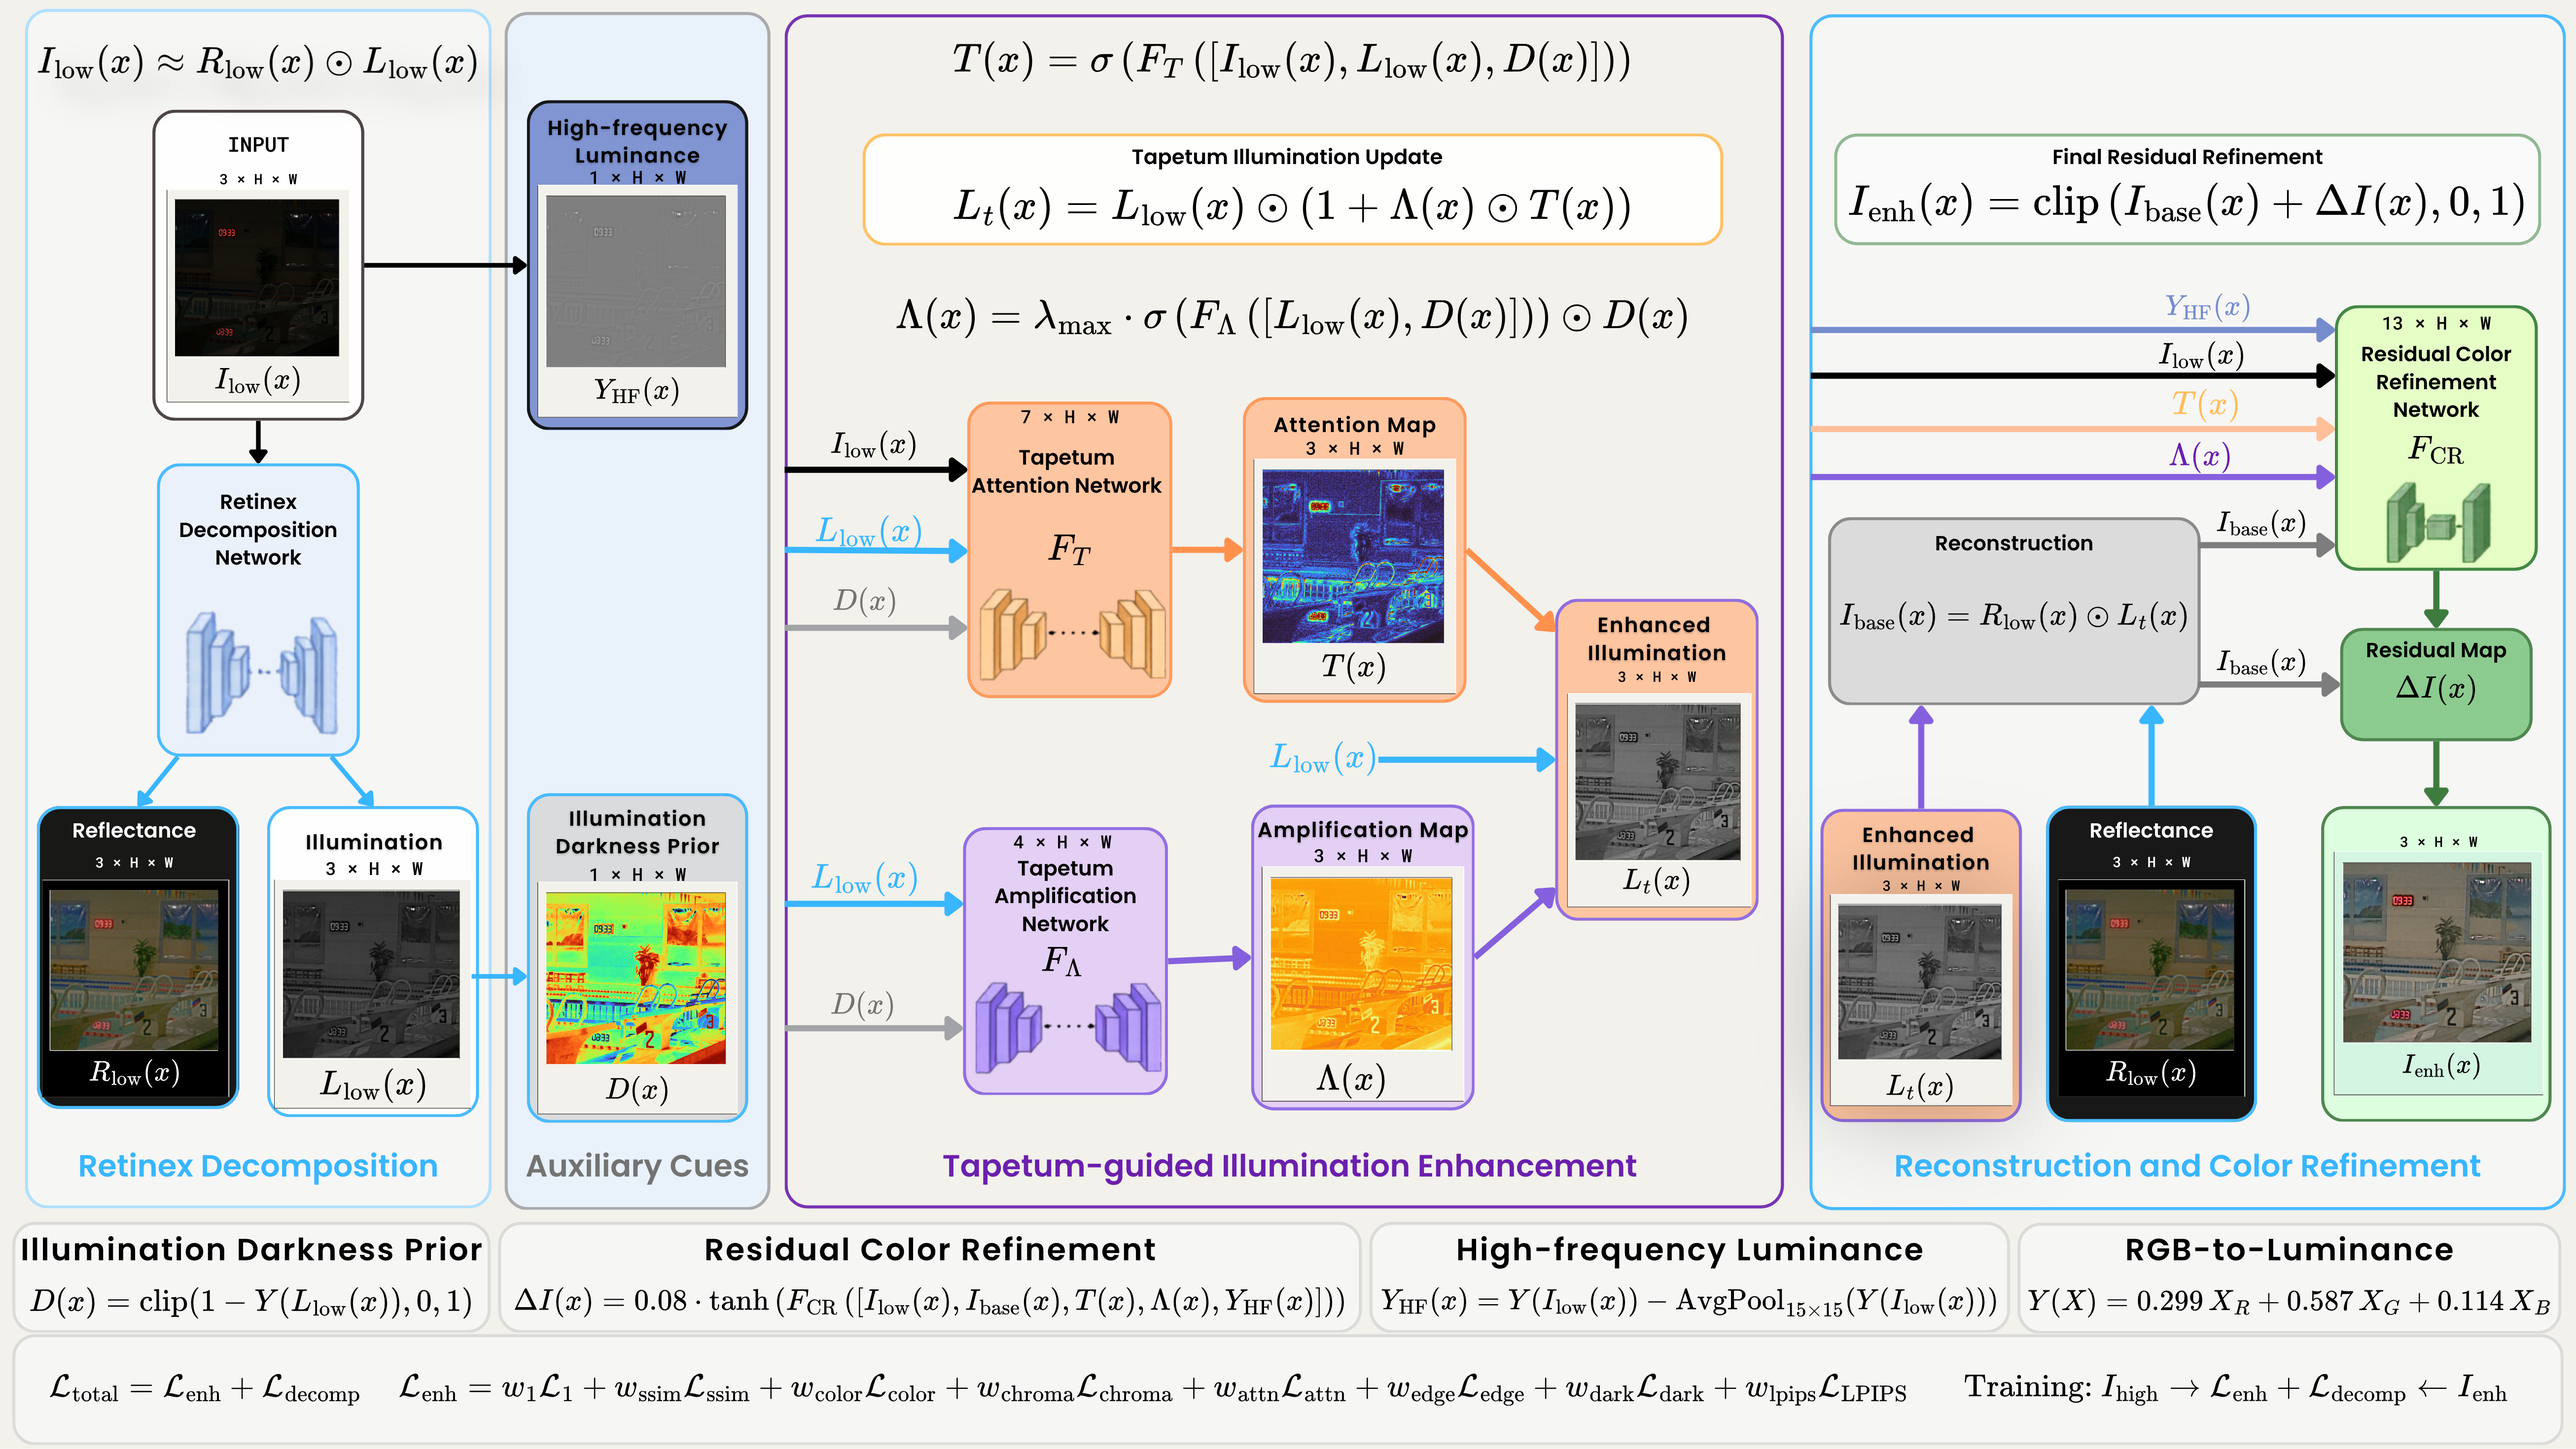
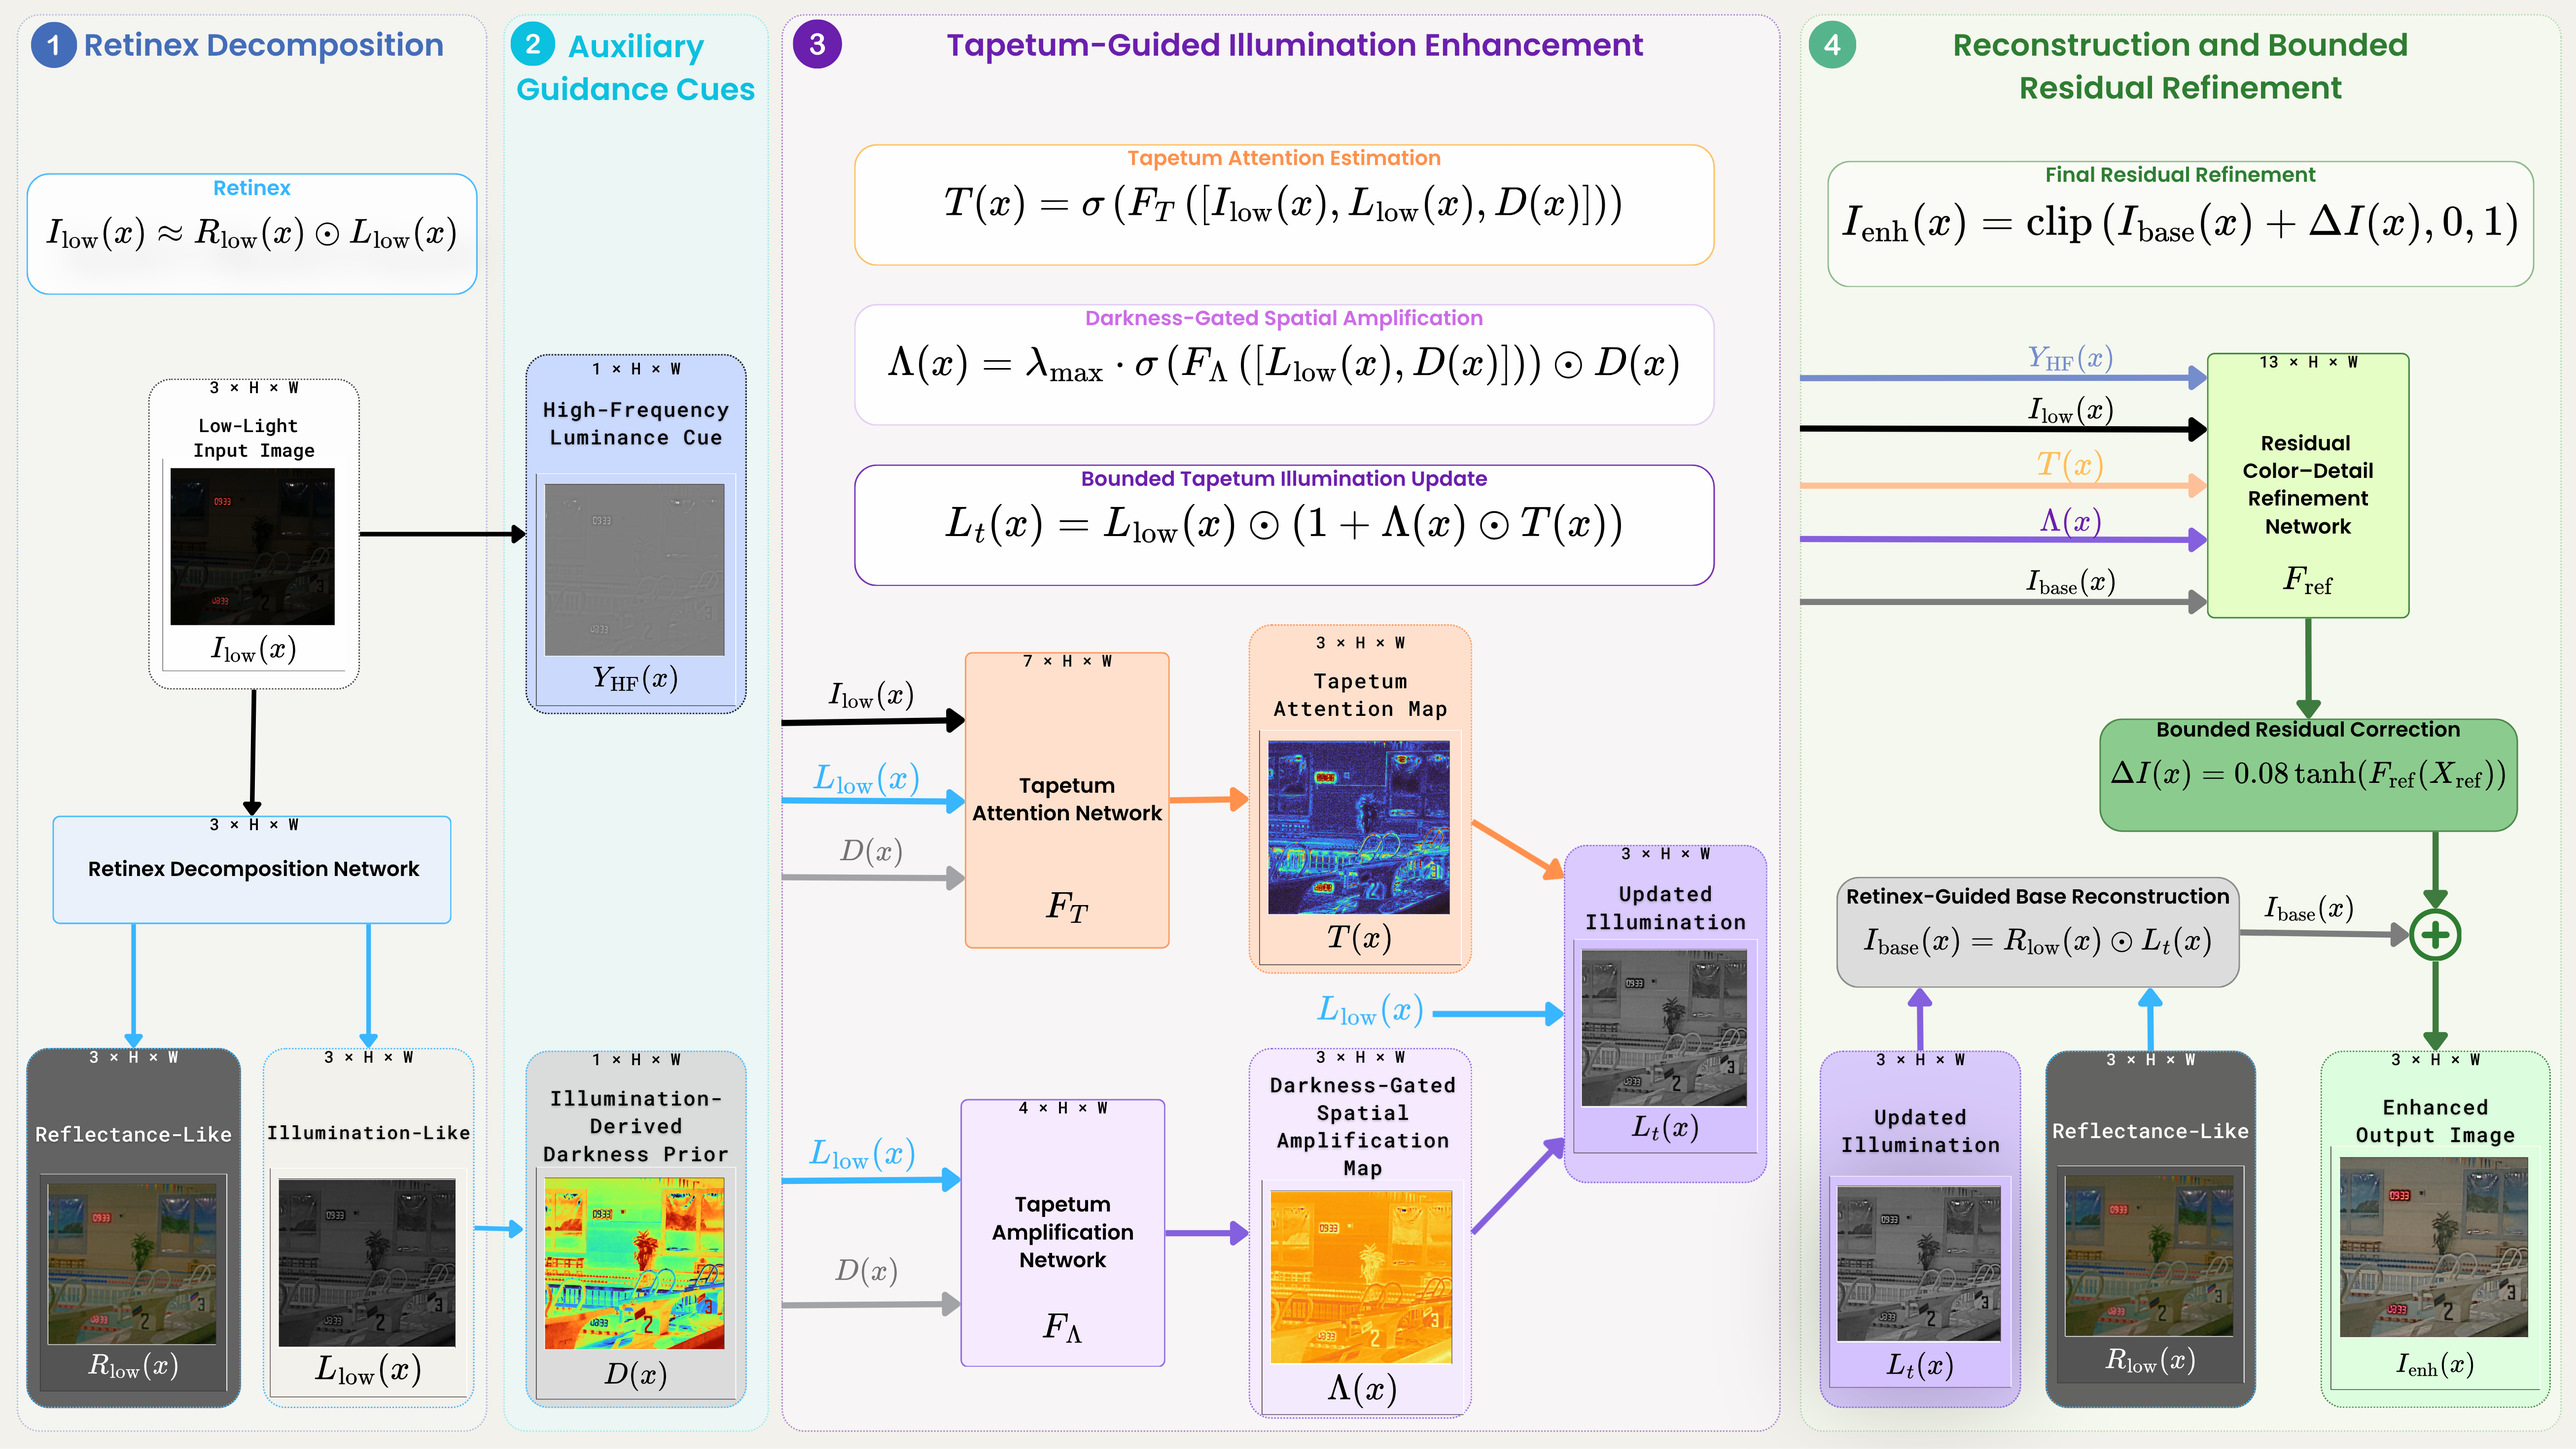
update image

diff --git a/TAPETUM/RetinexTapetum/config.py b/TAPETUM/RetinexTapetum/config.py
@@ -96,7 +96,7 @@ VALID_DATASET_SELECTIONS = {
     ("UHD-LL down4", None),
     ("SICE", None),
     ("LoLI-Street", None),
-    ("DCIM", None),
+    ("DICM", None),
     ("LIME", None),
     ("MEF", None),
     ("NPE", None),
@@ -501,10 +501,10 @@ DATASET_PROFILES = {
 # DATA_NAME selects the dataset to read. PROFILE_DATA_NAME and
 # PROFILE_DATA_VARIANT select the trained configuration whose weights and model
 # settings will be used. This separation allows unpaired external test sets
-# such as DCIM, LIME, MEF, NPE, and VV to be evaluated with any trained profile.
+# such as DICM, LIME, MEF, NPE, and VV to be evaluated with any trained profile.
 #
 # Examples:
-#   RETINEX_DATA_NAME=DCIM
+#   RETINEX_DATA_NAME=DICM
 #   RETINEX_PROFILE_DATA_NAME=LOL-v1
 #   RETINEX_PROFILE_DATA_VARIANT=None
 #
@@ -575,7 +575,7 @@ if PROFILE_KEY not in DATASET_PROFILES:
 ACTIVE_PROFILE = DATASET_PROFILES[PROFILE_KEY]
 
 EXTERNAL_TEST_DATASETS = {
-    "DCIM",
+    "DICM",
     "LIME",
     "MEF",
     "NPE",
